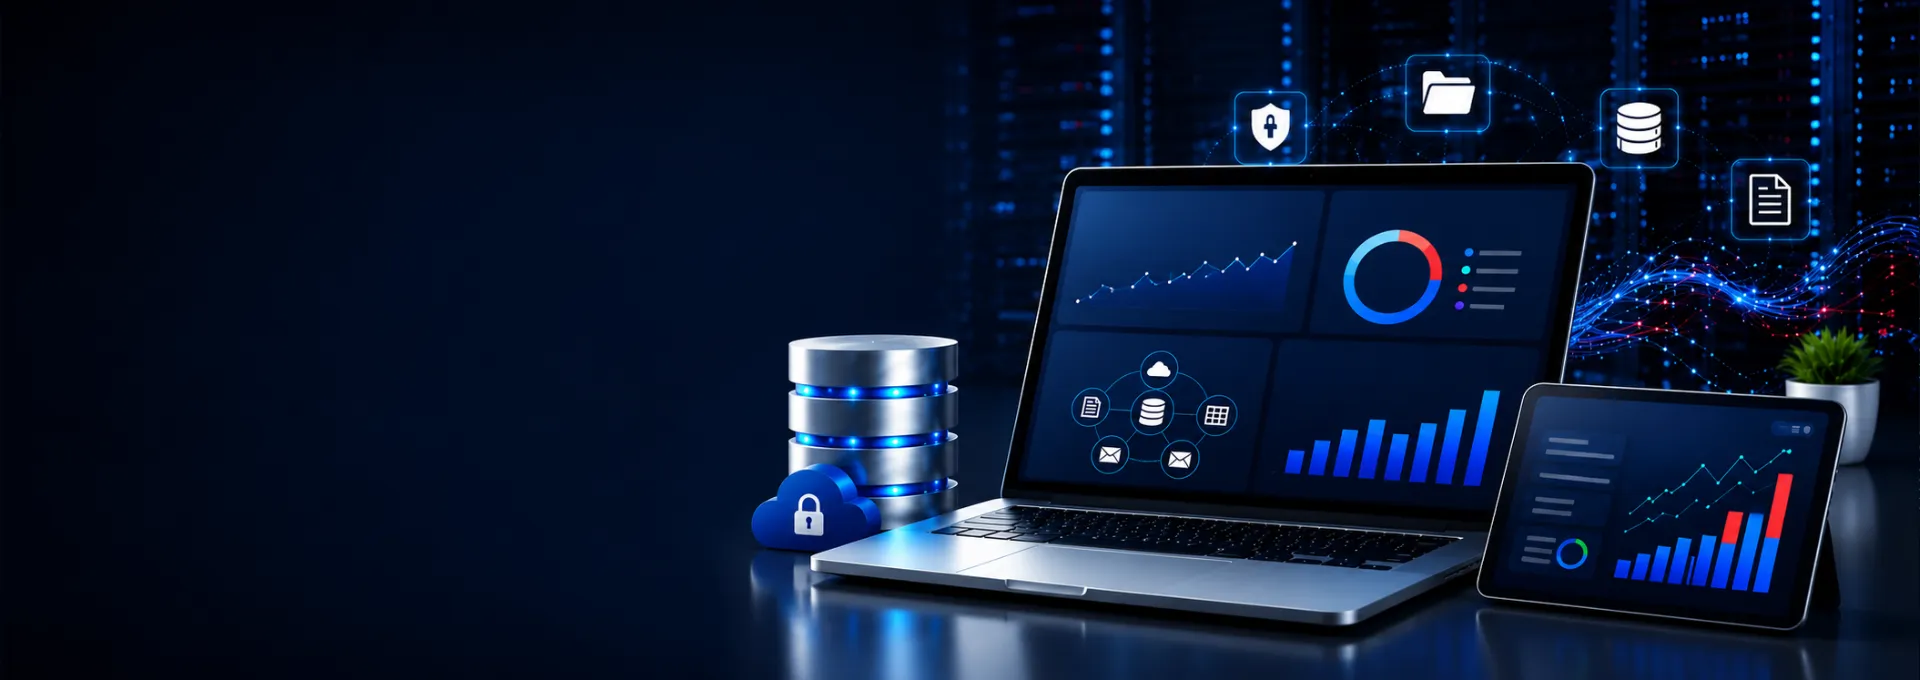
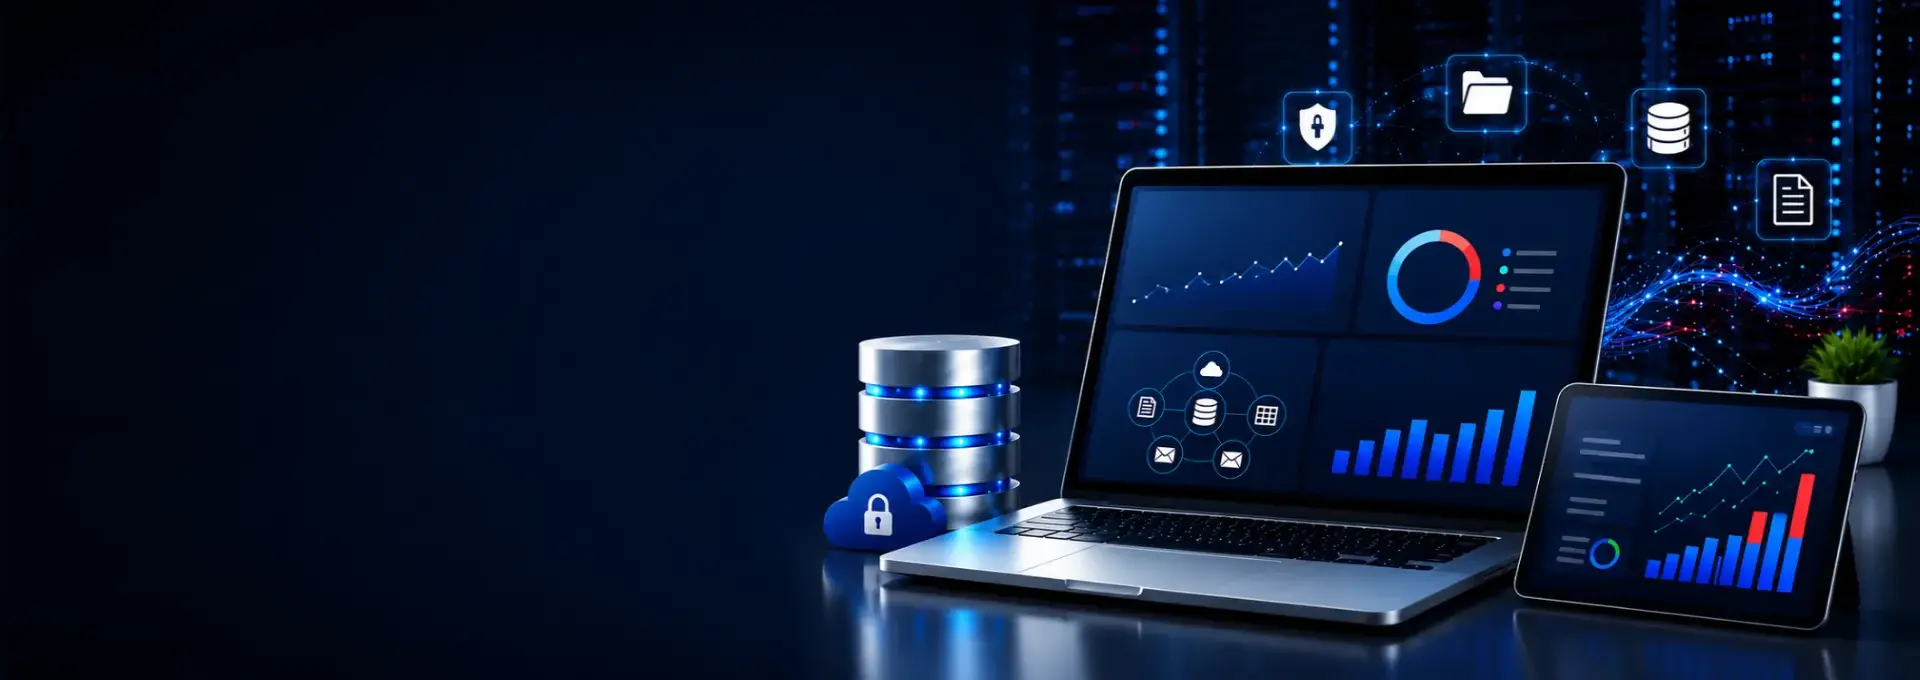
update new

Changed region(s): [[0.375, 0.0, 1.0, 1.0], [0.8438, 0.9574, 0.875, 0.9882]]

diff --git a/app/components/home/BannerSection/BannerSection.js b/app/components/home/BannerSection/BannerSection.js
@@ -77,7 +77,7 @@ export default function BannerSection() {
           <div className="carouselCaptionCustom">
             <div className="container h-100 d-flex align-items-center">
               <div className="carouselContent">
-                <h1 className="carouselHeading">Transform Ideas into Ai Solutions</h1>
+                <h1 className="carouselHeading">Transform Ideas Into AI Solutions</h1>
                 <p className="carouselDesc">Hire AI Experts for Agents AI & Intelligent Agent Development</p>
               </div>
             </div>
@@ -89,7 +89,7 @@ export default function BannerSection() {
           <div className="carouselCaptionCustom">
             <div className="container h-100 d-flex align-items-center">
               <div className="carouselContent">
-                <h1 className="carouselHeading">Data Mangement solution</h1>
+                <h1 className="carouselHeading">Data Mangement Solution</h1>
                 <p className="carouselDesc">transforming data into organized, secure and actionable insights to drive better business decisions</p>
               </div>
             </div>

diff --git a/app/components/home/BannerSection/custom.css b/app/components/home/BannerSection/custom.css
@@ -58,7 +58,12 @@
 }
 
 .carouselContent {
-  width: 50%;
+  width: 40%;
+}
+
+.carousel-control-next,
+.carousel-control-prev {
+  width: 10% !important;
 }
 
 @media (max-width: 1400px) {
